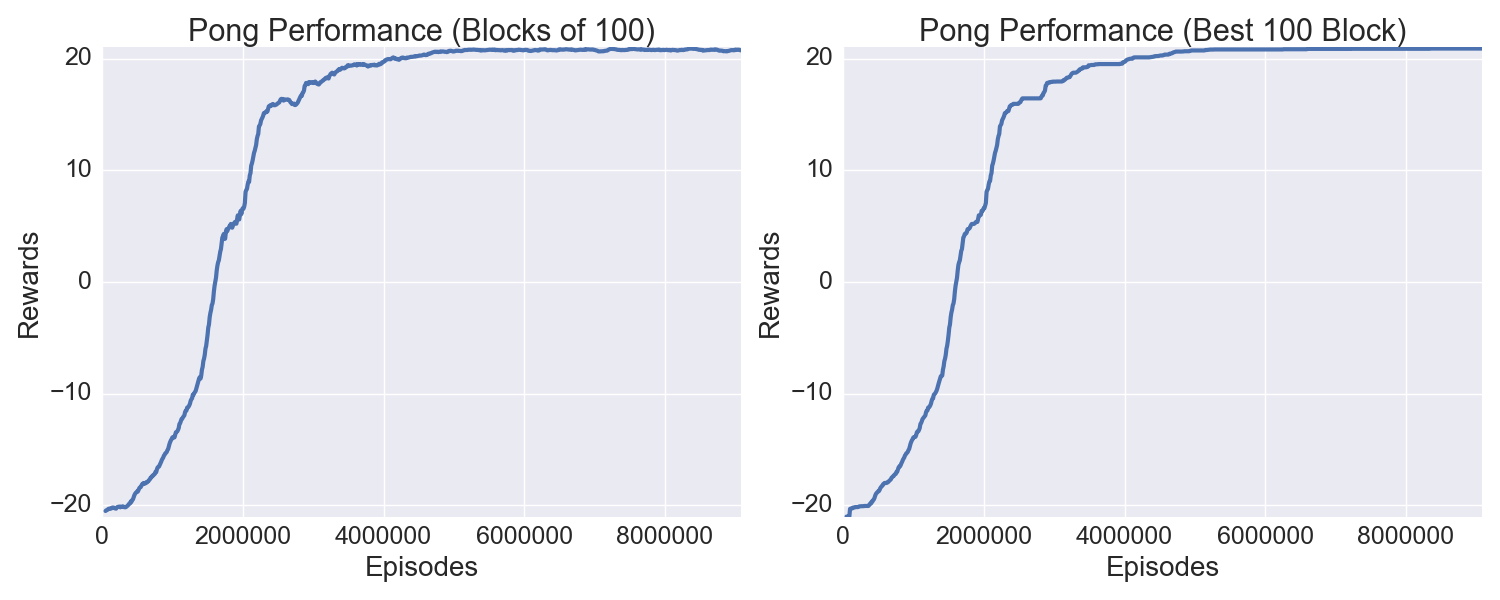
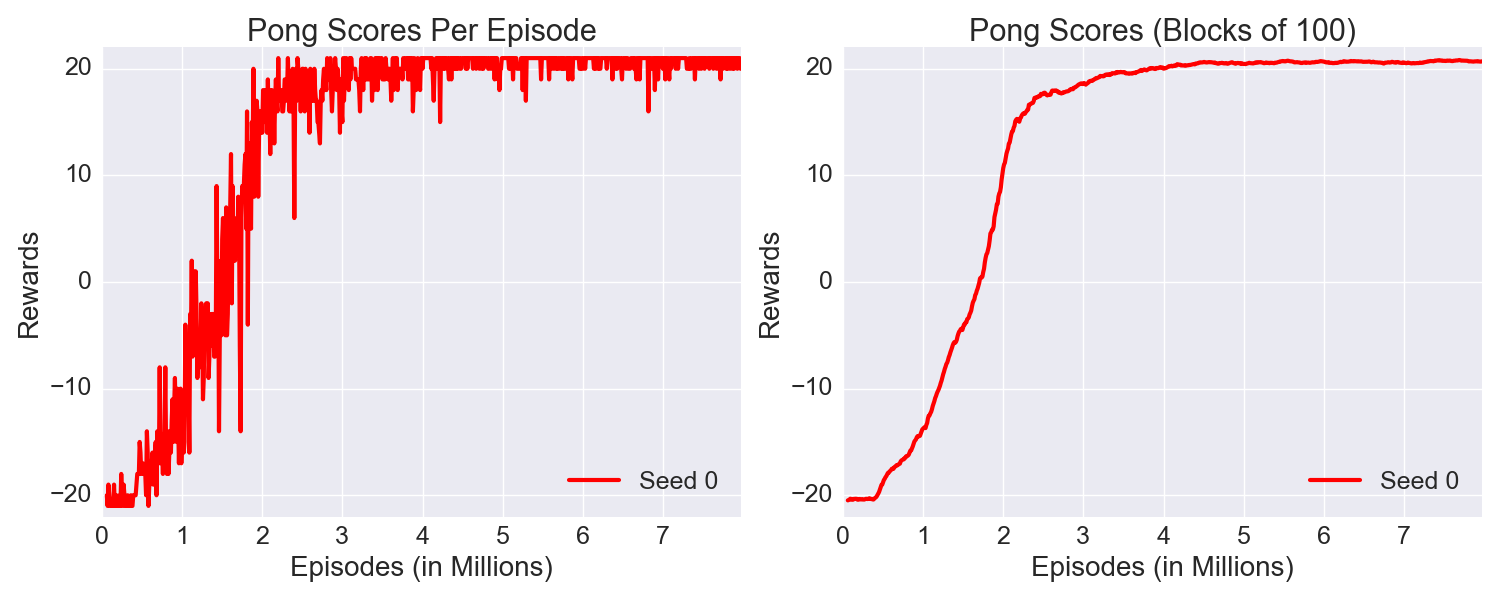
Revised figures for Pong

diff --git a/dqn/plot_dqn.py b/dqn/plot_dqn.py
@@ -13,7 +13,7 @@ FIGDIR = 'figures/'
 title_size = 22
 axis_size = 20
 tick_size = 18
-#xaxis_ticks = [0, 2000000, 4000000, 6000000, 8000000]
+legend_size = 18
 lw = 3
 
 
@@ -24,26 +24,25 @@ lw = 3
 # Change all '-inf's to be -21.
 pong_data = np.array( pickle.load(open(LOGDIR+'pong_s000.pkl', 'rb')) )
 pong_data = np.maximum(pong_data, -21)
-pong_t         = pong_data[:,0]
+pong_t         = (pong_data[:,0]) / 1000000.0
 pong_mean      = pong_data[:,1]
 pong_best_mean = pong_data[:,2]
 pong_ep        = pong_data[:,3]
 
 fig, axarr = plt.subplots(1,2, figsize=(15,6))
-axarr[0].set_title("Pong Performance (Per Episode)", fontsize=title_size)
-axarr[0].plot(pong_t, pong_ep, lw=lw)
-axarr[1].set_title("Pong Performance (Blocks of 100)", fontsize=title_size)
-axarr[1].plot(pong_t, pong_mean, lw=lw)
+axarr[0].set_title("Pong Scores Per Episode", fontsize=title_size)
+axarr[0].plot(pong_t, pong_ep, c='red', lw=lw, label='Seed 0')
+axarr[1].set_title("Pong Scores (Blocks of 100)", fontsize=title_size)
+axarr[1].plot(pong_t, pong_mean, c='red', lw=lw, label='Seed 0')
 
 for i in range(2):
-    axarr[i].set_xlabel("Episodes", fontsize=axis_size)
+    axarr[i].set_xlabel("Episodes (in Millions)", fontsize=axis_size)
     axarr[i].set_ylabel("Rewards", fontsize=axis_size)
     axarr[i].set_xlim([0,max(pong_t)])
     axarr[i].set_ylim([-22,22])
-    #axarr[i].set_xticks(xaxis_ticks)
-    #axarr[i].ticklabel_format(style='plain')
     axarr[i].tick_params(axis='x', labelsize=tick_size)
     axarr[i].tick_params(axis='y', labelsize=tick_size)
+    axarr[i].legend(loc='lower right', prop={'size':legend_size})
 
 plt.tight_layout()
 plt.savefig(FIGDIR+"pong.png")
